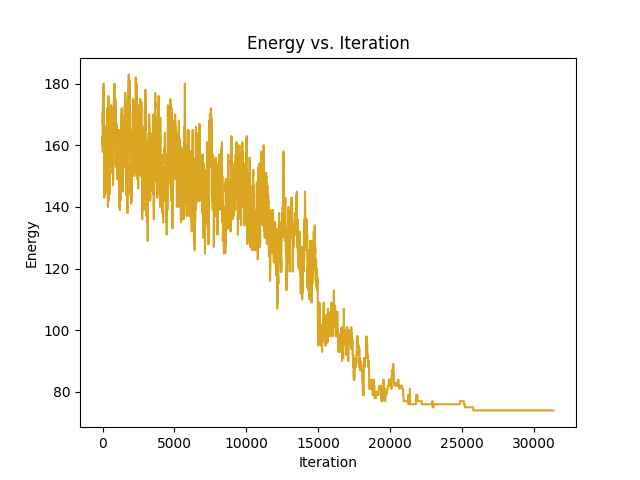
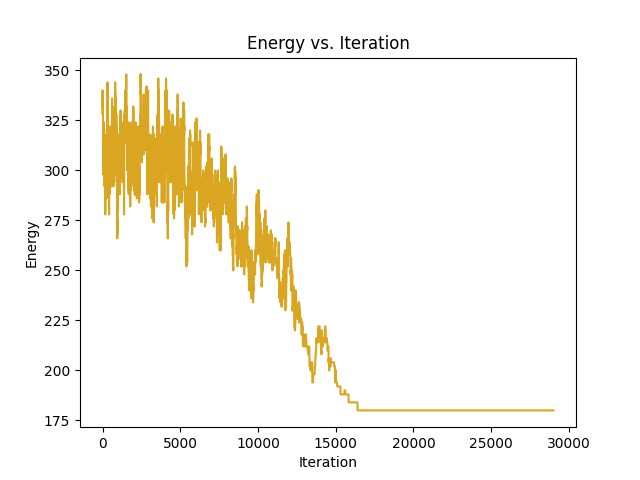
Changed four-neighbour

diff --git a/simulated_annealing/binary_img/finding_energies.py b/simulated_annealing/binary_img/finding_energies.py
@@ -8,29 +8,26 @@ def find_energy(img,energy_type):
     if energy_type == Energytype.FOUR:
         for i in range(height):
             for j in range(width):
-                """ img[i][j] """ 
-                current_color = 1
-                if img[i][j] == current_color:
-                    
-                    for x,y in [(0,1),(1,0),(-1,0),(0,-1)]:
-                        if i+x >= 0 and i+x < height and j+y >= 0 and j+y < width:
-                            energy += 1 if img[i+x][j+y] != current_color else 0
-                    
-                    for x,y in [(-1,-1),(1,1),(-1,1),(1,-1)]:
-                        if i+x >= 0 and i+x < height and j+y >= 0 and j+y < width:
-                            energy += 1 if img[i+x][j+y] == current_color else 0
+                current_color = img[i][j]
+                """ if img[i][j] == current_color: """    
+                for x,y in [(0,1),(1,0),(-1,0),(0,-1)]:
+                    if i+x >= 0 and i+x < height and j+y >= 0 and j+y < width:
+                        energy += 1 if img[i+x][j+y] != current_color else 0
+                
+                for x,y in [(-1,-1),(1,1),(-1,1),(1,-1)]:
+                    if i+x >= 0 and i+x < height and j+y >= 0 and j+y < width:
+                        energy += 1 if img[i+x][j+y] == current_color else 0
                 
 
     elif energy_type == Energytype.EIGHT:
         for i in range(height):
             for j in range(width):
-                
-                current_color = 1
-                if img[i][j] == current_color:
-
-                    for x,y in [(0,1),(1,0),(-1,0),(0,-1),(-1,-1),(1,1),(-1,1),(1,-1)]:
-                        if i+x >= 0 and i+x < height and j+y >= 0 and j+y < width:
-                            energy += 1 if img[i+x][j+y] != current_color else 0
+                current_color = img[i][j]
+                """ current_color = 1
+                if img[i][j] == current_color: """
+                for x,y in [(0,1),(1,0),(-1,0),(0,-1),(-1,-1),(1,1),(-1,1),(1,-1)]:
+                    if i+x >= 0 and i+x < height and j+y >= 0 and j+y < width:
+                        energy += 1 if img[i+x][j+y] != current_color else 0
     elif energy_type == Energytype.CORNERS:
         for i in range(height):
             for j in range(width):

diff --git a/simulated_annealing/binary_img/solve.py b/simulated_annealing/binary_img/solve.py
@@ -72,8 +72,8 @@ def simulated_annealing(img_size, density, max_iter, initial_temp, final_temp,re
     return best_img
 
 #img1 = simulated_annealing(10, 0.5, 50000, 10, 0.000000001,0.001, 0.9999,Energytype.FOUR,'output_fours')
-#img2 = simulated_annealing(10, 0.5, 500000, 10, 0.000000001,0.001, 0.9999,Energytype.EIGHT,'output_eights')
-img3 = simulated_annealing(30, 0.5, 1100000, 10, 0.000000001,0.001, 0.9999,Energytype.CORNERS,'output_corners')
+#img2 = simulated_annealing(10, 0.5, 50000, 10, 0.000000001,0.001, 0.9999,Energytype.EIGHT,'output_eights')
+#img3 = simulated_annealing(30, 0.5, 1100000, 10, 0.000000001,0.001, 0.9999,Energytype.CORNERS,'output_corners')
 #img3 = simulated_annealing(10, 0.5, 100000, 10, 0.000000001,0.001, 0.9999,Energytype.BOTH_CORNERS,'output_corners')
 
 
